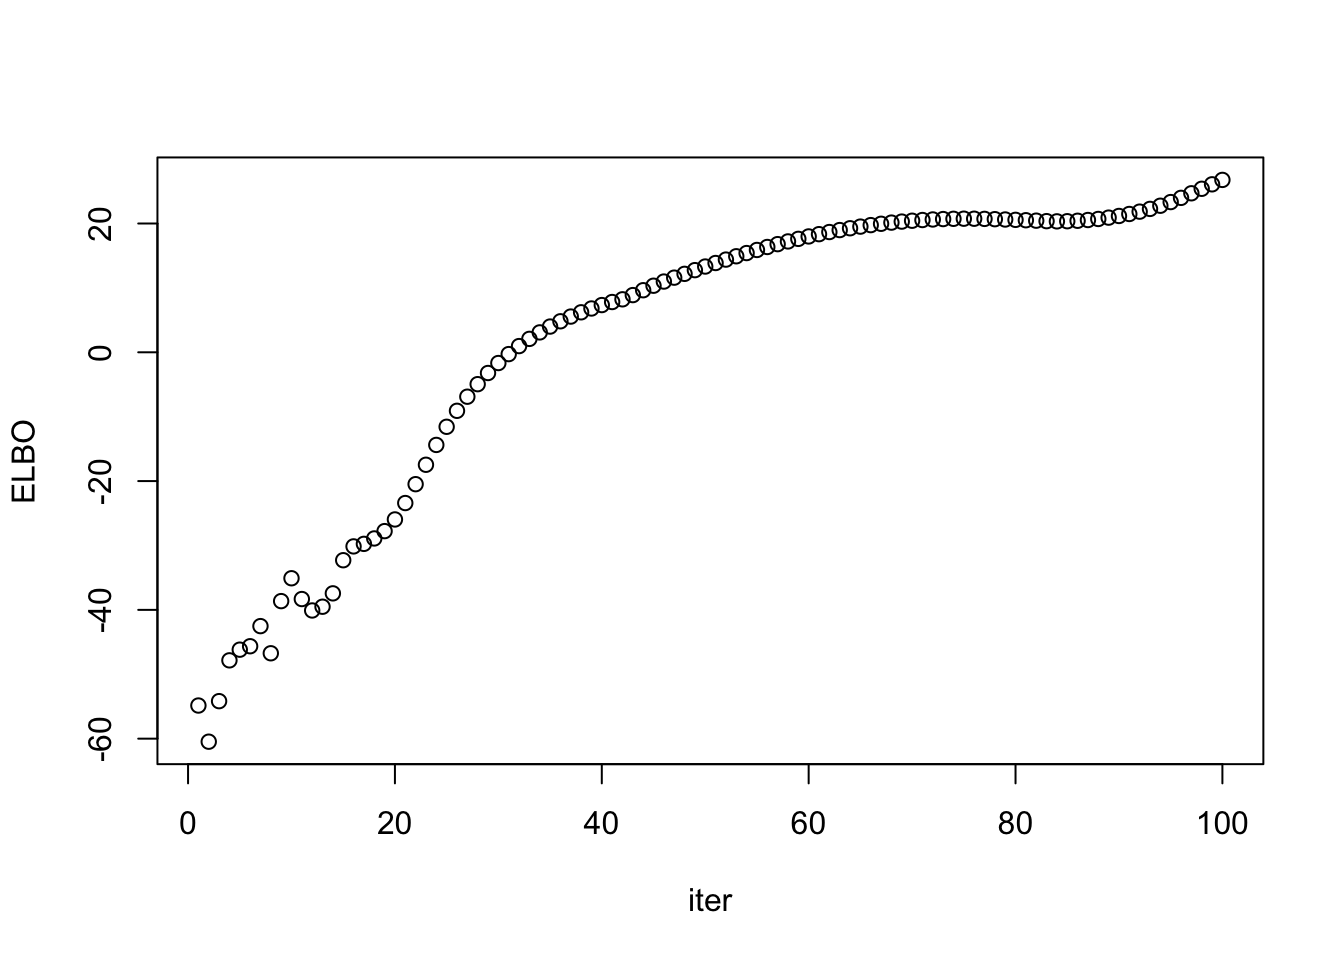
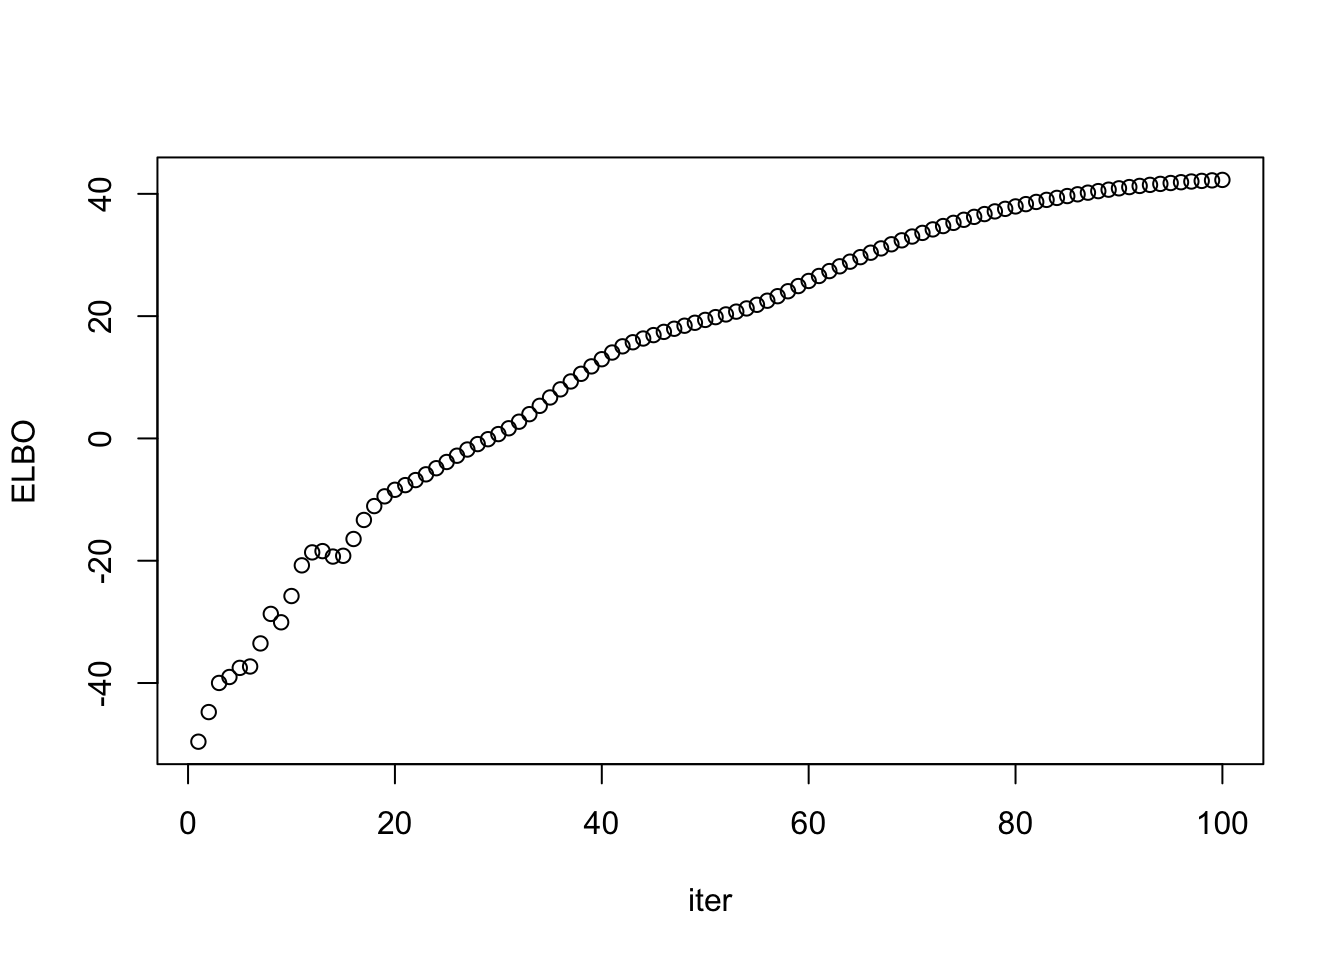
Build site.

diff --git a/docs/debug_ebpmf_exponential_mixture.html b/docs/debug_ebpmf_exponential_mixture.html
@@ -536,10 +536,10 @@ This reproducible <a href="http://rmarkdown.rstudio.com">R Markdown</a> analysis
 <div class="panel panel-default">
 <div class="panel-heading">
 <p class="panel-title">
-<a data-toggle="collapse" data-parent="#workflowr-checks" href="#strongRepositoryversionstrongahrefhttpsgithubcomzihao12ebpmfdemotreedf40a880f50334d5bef7d8de7283c187bab457c8targetblankdf40a88a"> <span class="glyphicon glyphicon-ok text-success" aria-hidden="true"></span> <strong>Repository version:</strong> <a href="https://github.com/zihao12/ebpmf_demo/tree/df40a880f50334d5bef7d8de7283c187bab457c8" target="_blank">df40a88</a> </a>
+<a data-toggle="collapse" data-parent="#workflowr-checks" href="#strongRepositoryversionstrongahrefhttpsgithubcomzihao12ebpmfdemotreec1b999757516d4efa1b3f236077ab27aad82269atargetblankc1b9997a"> <span class="glyphicon glyphicon-ok text-success" aria-hidden="true"></span> <strong>Repository version:</strong> <a href="https://github.com/zihao12/ebpmf_demo/tree/c1b999757516d4efa1b3f236077ab27aad82269a" target="_blank">c1b9997</a> </a>
 </p>
 </div>
[2 lines of base64/hex data omitted]
 <div class="panel-body">
 <p>
 Great! You are using Git for version control. Tracking code development and connecting the code version to the results is critical for reproducibility. The version displayed above was the version of the Git repository at the time these results were generated. <br><br> Note that you need to be careful to ensure that all relevant files for the analysis have been committed to Git prior to generating the results (you can use <code>wflow_publish</code> or <code>wflow_git_commit</code>). workflowr only checks the R Markdown file, but you know if there are other scripts or data files that it depends on. Below is the status of the Git repository when the results were generated:
@@ -609,6 +609,40 @@ Message
 Rmd
 </td>
 <td>
+<a href="https://github.com/zihao12/ebpmf_demo/blob/c1b999757516d4efa1b3f236077ab27aad82269a/analysis/debug_ebpmf_exponential_mixture.Rmd" target="_blank">c1b9997</a>
+</td>
+<td>
+zihao12
+</td>
+<td>
+2019-10-22
+</td>
+<td>
+update debug
+</td>
+</tr>
+<tr>
+<td>
+html
+</td>
+<td>
+<a href="https://rawcdn.githack.com/zihao12/ebpmf_demo/b444dcf888ee0128760018040e779e95db45ceca/docs/debug_ebpmf_exponential_mixture.html" target="_blank">b444dcf</a>
+</td>
+<td>
+zihao12
+</td>
+<td>
+2019-10-22
+</td>
+<td>
+Build site.
+</td>
+</tr>
+<tr>
+<td>
+Rmd
+</td>
+<td>
 <a href="https://github.com/zihao12/ebpmf_demo/blob/df40a880f50334d5bef7d8de7283c187bab457c8/analysis/debug_ebpmf_exponential_mixture.Rmd" target="_blank">df40a88</a>
 </td>
 <td>
@@ -628,7 +662,7 @@ debug ebpmf exp
 </div>
 </div>
 </div>
-<p>I managed to find the bug in <code>ebpmf_exponential_mixture</code>. Now we can make <code>ELBO</code> increase monotonically if we fix the scale/grid. But when we unfix the grid, the <code>ELBO</code> does not increase monotonically.</p>
+<p>I managed to find the bug in <code>ebpmf_exponential_mixture</code>. Now we can make <code>ELBO</code> increase monotonically if we fix the scale/grid. When we unfix the grid, the <code>ELBO</code> also increase monotonically if the grids chosen are dense enough. (As suggested by <a href="https://github.com/willwerscheid">Jason</a>, setting <span class="math inline">\(m = 2^{0.25}\)</span> works).</p>
 <p>Another thing that’s unexpected is: rank-1 fit gets better RMSE than rank-K fit (where K is truth) in both MLE and EBPMF.</p>
 <pre class="r"><code>rm(list  = ls())
 devtools::load_all(&quot;../ebpmf&quot;)</code></pre>
@@ -709,6 +743,43 @@ data.frame(ll_train = ll_train_out,  ll_val = ll_val_out, rmse = rmse_out)</code
 1 -37080.8 -38292.97 0.4078132</code></pre>
 <pre class="r"><code>plot(out$ELBO, xlab = &quot;iter&quot;, ylab = &quot;ELBO&quot;)</code></pre>
 <p><img src="figure/debug_ebpmf_exponential_mixture.Rmd/unnamed-chunk-4-1.png" width="672" style="display: block; margin: auto;" /></p>
+<p>
+<button type="button" class="btn btn-default btn-xs btn-workflowr btn-workflowr-fig" data-toggle="collapse" data-target="#fig-unnamed-chunk-4-1">
+Past versions of unnamed-chunk-4-1.png
+</button>
+</p>
+<div id="fig-unnamed-chunk-4-1" class="collapse">
+<div class="table-responsive">
+<table class="table table-condensed table-hover">
+<thead>
+<tr>
+<th>
+Version
+</th>
+<th>
+Author
+</th>
+<th>
+Date
+</th>
+</tr>
+</thead>
+<tbody>
+<tr>
+<td>
+<a href="https://github.com/zihao12/ebpmf_demo/blob/b444dcf888ee0128760018040e779e95db45ceca/docs/figure/debug_ebpmf_exponential_mixture.Rmd/unnamed-chunk-4-1.png" target="_blank">b444dcf</a>
+</td>
+<td>
+zihao12
+</td>
+<td>
+2019-10-22
+</td>
+</tr>
+</tbody>
+</table>
+</div>
+</div>
 <!-- ```{r warning=F} -->
 <!-- rm(out) -->
 <!-- ## rank-k: fix gl, gf after first iteration -->
@@ -741,13 +812,50 @@ data.frame(ll_train = ll_train_out,  ll_val = ll_val_out, rmse = rmse_out)</code
 1 -37080.79 -38292.98 0.4078154</code></pre>
 <pre class="r"><code>plot(out$ELBO, xlab = &quot;iter&quot;, ylab = &quot;ELBO&quot;)</code></pre>
 <p><img src="figure/debug_ebpmf_exponential_mixture.Rmd/unnamed-chunk-5-1.png" width="672" style="display: block; margin: auto;" /></p>
+<p>
+<button type="button" class="btn btn-default btn-xs btn-workflowr btn-workflowr-fig" data-toggle="collapse" data-target="#fig-unnamed-chunk-5-1">
+Past versions of unnamed-chunk-5-1.png
+</button>
+</p>
+<div id="fig-unnamed-chunk-5-1" class="collapse">
+<div class="table-responsive">
+<table class="table table-condensed table-hover">
+<thead>
+<tr>
+<th>
+Version
+</th>
+<th>
+Author
+</th>
+<th>
+Date
+</th>
+</tr>
+</thead>
+<tbody>
+<tr>
+<td>
+<a href="https://github.com/zihao12/ebpmf_demo/blob/b444dcf888ee0128760018040e779e95db45ceca/docs/figure/debug_ebpmf_exponential_mixture.Rmd/unnamed-chunk-5-1.png" target="_blank">b444dcf</a>
+</td>
+<td>
+zihao12
+</td>
+<td>
+2019-10-22
+</td>
+</tr>
+</tbody>
+</table>
+</div>
+</div>
 </div>
 <div id="ebpmf-free" class="section level3">
 <h3>ebpmf, free</h3>
 <p>In each iteration, the algorithm estimates scale (grid)</p>
 <pre class="r"><code>rm(out)
 ## rank-k: fix nothing
-out =  ebpmf::ebpmf_exponential_mixture(X = sim$X, K = K, maxiter.out = maxiter, verbose = F)
+out =  ebpmf::ebpmf_exponential_mixture(X = sim$X, K = K, maxiter.out = maxiter, verbose = F,m = sqrt(2))
 
 lam_out =  out$qg$qls_mean  %*% t(out$qg$qfs_mean)
 ll_train_out  = sum(dpois(sim$X, lam_out, log = T))
@@ -755,9 +863,60 @@ ll_val_out  = sum(dpois(sim$Y, lam_out, log = T))
 rmse_out = sqrt(mean((lam_out - sim$Lam)^2))
 data.frame(ll_train = ll_train_out,  ll_val = ll_val_out, rmse = rmse_out)</code></pre>
 <pre><code>   ll_train    ll_val      rmse
-1 -37081.47 -38288.14 0.4065108</code></pre>
+1 -37081.34 -38287.39 0.4064913</code></pre>
 <pre class="r"><code>plot(out$ELBO, xlab = &quot;iter&quot;, ylab = &quot;ELBO&quot;)</code></pre>
 <p><img src="figure/debug_ebpmf_exponential_mixture.Rmd/unnamed-chunk-6-1.png" width="672" style="display: block; margin: auto;" /></p>
+<p>
+<button type="button" class="btn btn-default btn-xs btn-workflowr btn-workflowr-fig" data-toggle="collapse" data-target="#fig-unnamed-chunk-6-1">
+Past versions of unnamed-chunk-6-1.png
+</button>
+</p>
+<div id="fig-unnamed-chunk-6-1" class="collapse">
+<div class="table-responsive">
+<table class="table table-condensed table-hover">
+<thead>
+<tr>
+<th>
+Version
+</th>
+<th>
+Author
+</th>
+<th>
+Date
+</th>
+</tr>
+</thead>
+<tbody>
+<tr>
+<td>
+<a href="https://github.com/zihao12/ebpmf_demo/blob/b444dcf888ee0128760018040e779e95db45ceca/docs/figure/debug_ebpmf_exponential_mixture.Rmd/unnamed-chunk-6-1.png" target="_blank">b444dcf</a>
+</td>
+<td>
+zihao12
+</td>
+<td>
+2019-10-22
+</td>
+</tr>
+</tbody>
+</table>
+</div>
+</div>
+<p>Now it is not strictly increasing. Let’s use denser grids:</p>
+<pre class="r"><code>rm(out)
+## rank-k: fix nothing
+out =  ebpmf::ebpmf_exponential_mixture(X = sim$X, K = K, maxiter.out = maxiter, verbose = F,m = 2^0.25)
+
+lam_out =  out$qg$qls_mean  %*% t(out$qg$qfs_mean)
+ll_train_out  = sum(dpois(sim$X, lam_out, log = T))
+ll_val_out  = sum(dpois(sim$Y, lam_out, log = T))
+rmse_out = sqrt(mean((lam_out - sim$Lam)^2))
+data.frame(ll_train = ll_train_out,  ll_val = ll_val_out, rmse = rmse_out)</code></pre>
+<pre><code>   ll_train    ll_val      rmse
+1 -37081.08 -38288.78 0.4069499</code></pre>
+<pre class="r"><code>plot(out$ELBO, xlab = &quot;iter&quot;, ylab = &quot;ELBO&quot;)</code></pre>
+<p><img src="figure/debug_ebpmf_exponential_mixture.Rmd/unnamed-chunk-7-1.png" width="672" style="display: block; margin: auto;" /></p>
 </div>
 <div id="mle-1" class="section level3">
 <h3>mle</h3>
@@ -768,7 +927,7 @@ ll_val_mle_rankK  = sum(dpois(sim$Y, lam_mle_rankK, log = T))
 rmse_mle_rankK = sqrt(mean((lam_mle_rankK - sim$Lam)^2))
 data.frame(ll_train = ll_train_mle_rankK,  ll_val = ll_val_mle_rankK, rmse = rmse_mle_rankK)</code></pre>
 <pre><code>   ll_train    ll_val      rmse
-1 -36539.68 -38815.32 0.5504251</code></pre>
+1 -36541.67 -38811.36 0.5495442</code></pre>
 <br>
 <p>
 <button type="button" class="btn btn-default btn-workflowr btn-workflowr-sessioninfo" data-toggle="collapse" data-target="#workflowr-sessioninfo" style="display: block;">
